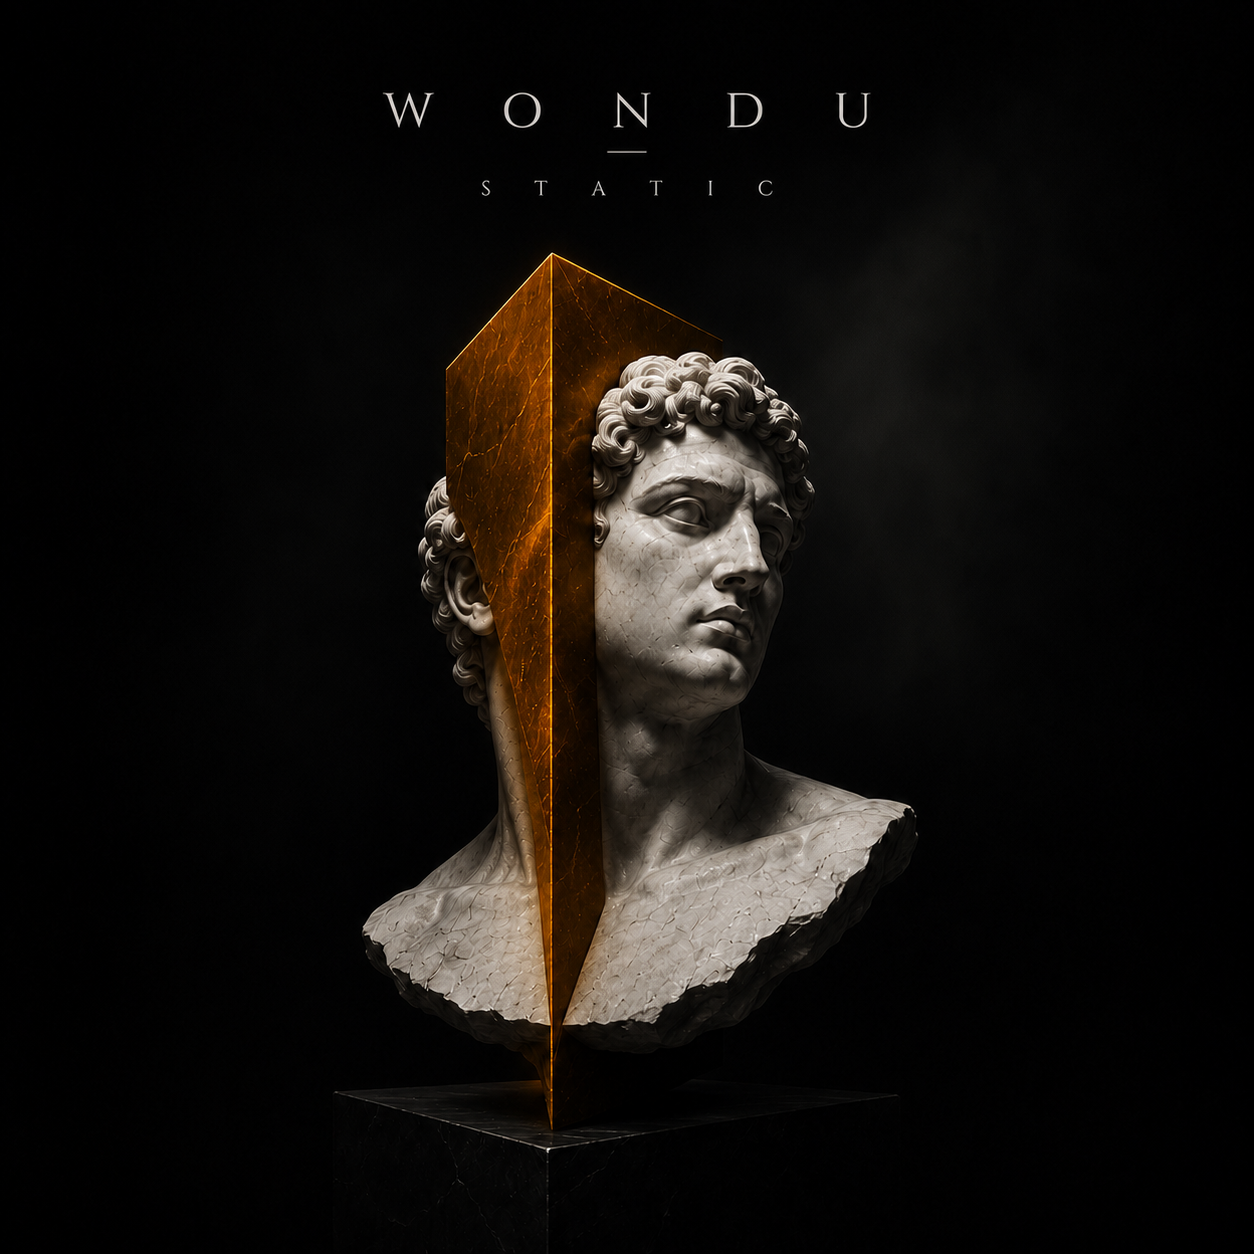
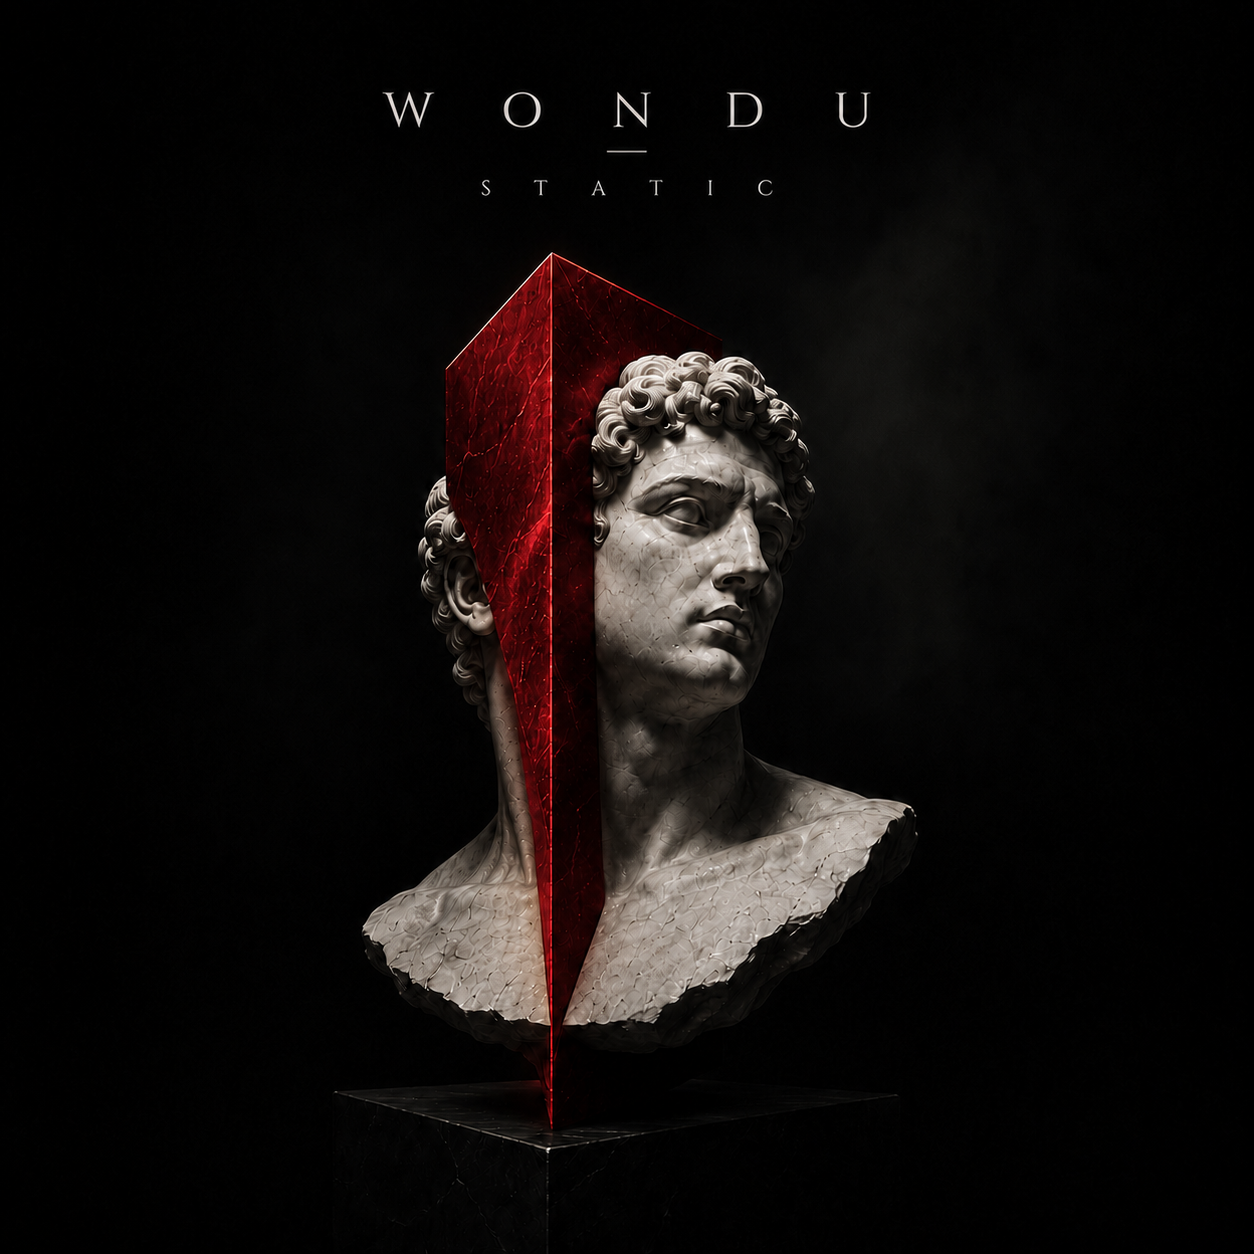
new cover

Changed region(s): [[0.3421, 0.1866, 0.622, 0.8397], [0.5287, 0.3732, 0.5598, 0.4043]]

diff --git a/index.html b/index.html
@@ -18,8 +18,8 @@
     --dim:#8b93a6;
     --dim2:#565d6c;
 
-    --static:#c9752e;
-    --static-dim:#6e3f19;
+    --static:#b8342a;
+    --static-dim:#6b1d17;
     --fracture:#6fae95;
     --fracture-dim:#3a5c4c;
     --afterlight:#e8935a;
@@ -210,7 +210,7 @@
   }
   .cover-card:hover .cover-frame-home img{ filter:saturate(1.1) brightness(1.05); transform:scale(1.035); }
   .cover-card:hover{ transform:translateY(-6px); }
-  .cover-card[data-album="static"]:hover{ box-shadow:0 18px 50px -12px rgba(201,117,46,0.35); border-color:var(--static-dim); }
+  .cover-card[data-album="static"]:hover{ box-shadow:0 18px 50px -12px rgba(184,52,42,0.35); border-color:var(--static-dim); }
   .cover-card[data-album="fracture"]:hover{ box-shadow:0 18px 50px -12px rgba(111,174,149,0.35); border-color:var(--fracture-dim); }
   .cover-card[data-album="afterlight"]:hover{ box-shadow:0 18px 50px -12px rgba(232,147,90,0.35); border-color:var(--afterlight-dim); }
 
